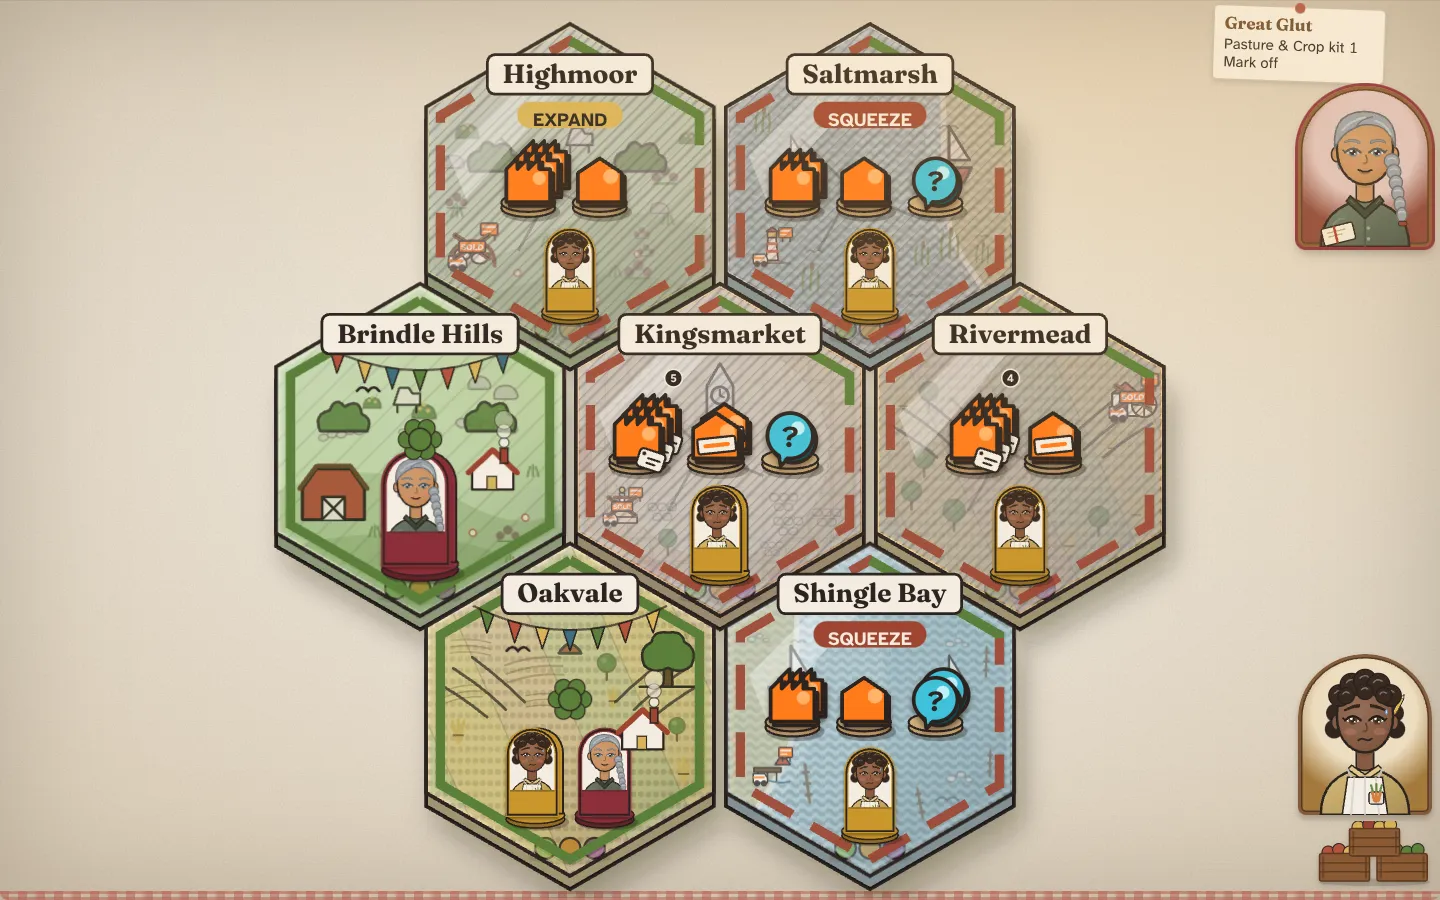
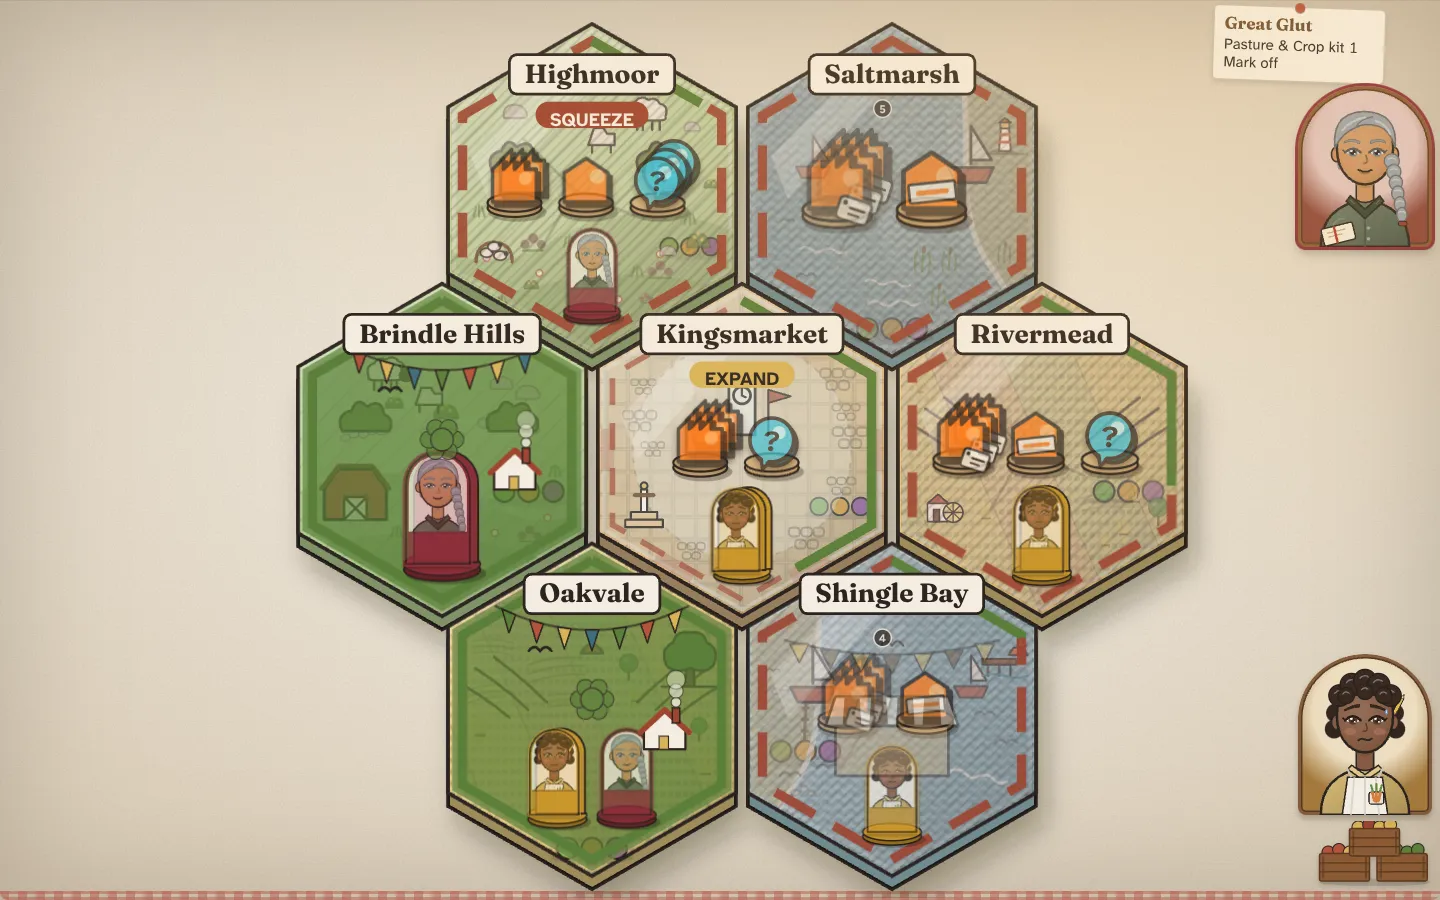
Cathnivore item 267: deeper region land; Hollowell's cold glaze under 15% (key art re-shot)
Claude-Session: https://claude.ai/code/session_01SimvMN1RHBGCWN7Eo7MzhN

diff --git a/src/ui/Map.tsx b/src/ui/Map.tsx
@@ -925,7 +925,7 @@ export default function Map({ state, enemyTurn, highlight, threat, onSelect, onI
             </g>
             {/* Plan item 55: Hollowell dug in (grip stage 2+) glazes the ground cold; a region the last enemy turn
                 Squeezed wilts (greyed, the crops drooping) until the next. */}
-            {gripStage(r) >= 2 && <polygon className="grip-glaze" data-grip-glaze={gripStage(r)} points={hexPoints(x, y, HEX_R * GAP_SCALE * 0.97)} fill="var(--sea)" opacity={gripStage(r) >= 3 ? 0.2 : 0.12} pointerEvents="none" />}
+            {gripStage(r) >= 2 && <polygon className="grip-glaze" data-grip-glaze={gripStage(r)} points={hexPoints(x, y, HEX_R * GAP_SCALE * 0.97)} fill="var(--sea)" opacity={gripStage(r) >= 3 ? 0.14 : 0.1} pointerEvents="none" />}
             {wilted.has(id) && !r.liberated && <polygon className="grip-wilt" data-wilt="true" points={hexPoints(x, y, HEX_R * GAP_SCALE * 0.97)} fill="var(--ink)" opacity={0.14} pointerEvents="none" />}
             {/* Plan item 55: the region's own landmark (the mill, the light, the market cross...), from the campaign
                 map's art, on the first flank of the tile its pieces leave clear. */}

diff --git a/src/styles/tokens.css b/src/styles/tokens.css
@@ -19,10 +19,10 @@
   --clay: #B5523B;
   --clay-deep: #9E4430;
 
-  --region-pasture: #CFE0B4;
-  --region-crop: #EBD9A6;
-  --region-coast: #BFD6DA;
-  --region-capital: #E2C9A0;
+  --region-pasture: #BCD79A; /* plan item 267: deeper land (was #CFE0B4) */
+  --region-crop: #E8CC84; /* was #EBD9A6 */
+  --region-coast: #A6CBD4; /* was #BFD6DA */
+  --region-capital: #DDB987; /* was #E2C9A0 */
 
   --p-mara: #8C2F39;
   --p-tomas: #C9962B;

diff --git a/docs/plan/two-week-plan.md b/docs/plan/two-week-plan.md
@@ -2703,7 +2703,7 @@ The items come from fresh-eyes audits on 2026-11-01 and 2026-11-02 (items 25-32:
 - **Accept:** each point checked before and after at P and D; text 12 px or more at 4.5:1; the specs for each screen pass.
 - **Size:** 2
 
-## 267. [ ] Cathnivore: Hollowell's held land looks occupied, not faded *(lane B, in progress)*
+## 267. [ ] Cathnivore: Hollowell's held land looks occupied, not faded *(lane B, in progress)* *(slice 1, 2026-11-08 01:30 lane B: the four light-mode region tokens deeper (pasture #CFE0B4 -> #BCD79A, crop #EBD9A6 -> #E8CC84, coast #BFD6DA -> #A6CBD4, capital #E2C9A0 -> #DDB987; saturation on game hexes 0.22/0.30/0.56 -> 0.25/0.37/0.61); dug-in Hollowell's cold glaze capped under 15% (0.2 -> 0.14; 0.12 -> 0.1); region names keep their paper tags. **Tried and reverted:** an orange-and-white fence inside each held hex: the PressureRing (players' share against Hollowell's, item 9) already runs there as a red dashed ring, so a fence covered it. board-scale, board-diorama, title-table, plan-cards (axe), campaign-map, -vignettes, setup pass (74); key art re-shot. Left: held hexes still haze under the glaze and hatching beside a freed one (poster: Saltmarsh, Shingle Bay vs Brindle Hills); glossy billboards per Outlet (GripProps draws one from grip stage 1); chroma measure)*
 - **Why:** `plan1107g/cath-title-D` (875-1315 x 340-735): every hex a pale wash over the gingham, the title's hero board a ghost; `cath-game-D` (570-1160 x 120-690) and `cath-game-P` (20-360 x 170-505): hex interiors are low-saturation hatching, and the most saturated things on the board are Hollowell's Outlets and '?' discs. VISION: warm hand-made land for the players, glossy plastic for the corporations.
 - **Build:** every region's land in full colour (the campaign map's painted ground, `cath-campaign-D` 90-650 x 225-770); Hollowell's hold drawn as glossy additions on it (an orange-and-white plastic fence along a held hex's edge, a small glossy billboard per Outlet), not a white overlay; liberation strips the plastic (item 127's moment).
 - **Accept:** each held hex's land chroma 80% or more of the same hex when free (5 samples per hex); no full-hex overlay above 15% opacity; held vs free tell apart by shape (fence or billboard); region names 4.5:1; board-scale, board-diorama, title-table, setup pass; key art re-shot; shots title and game, P and D, light and dark.
